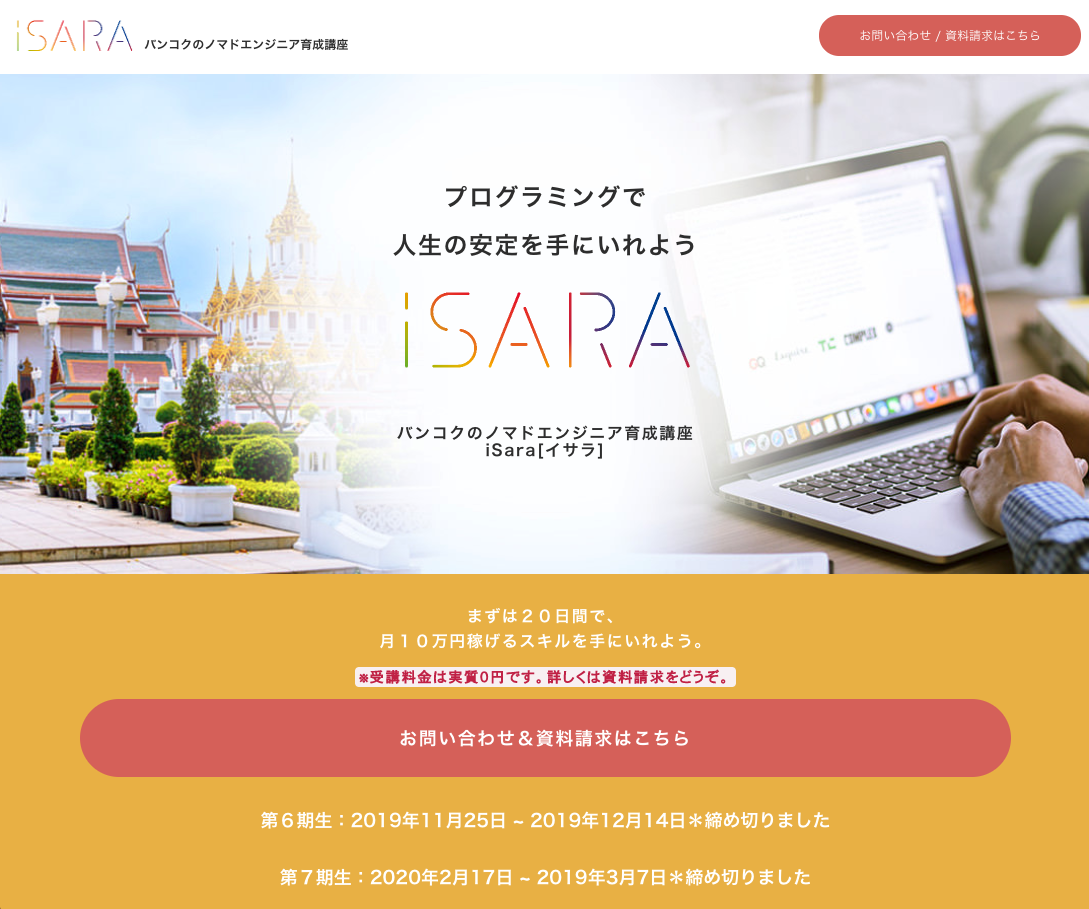
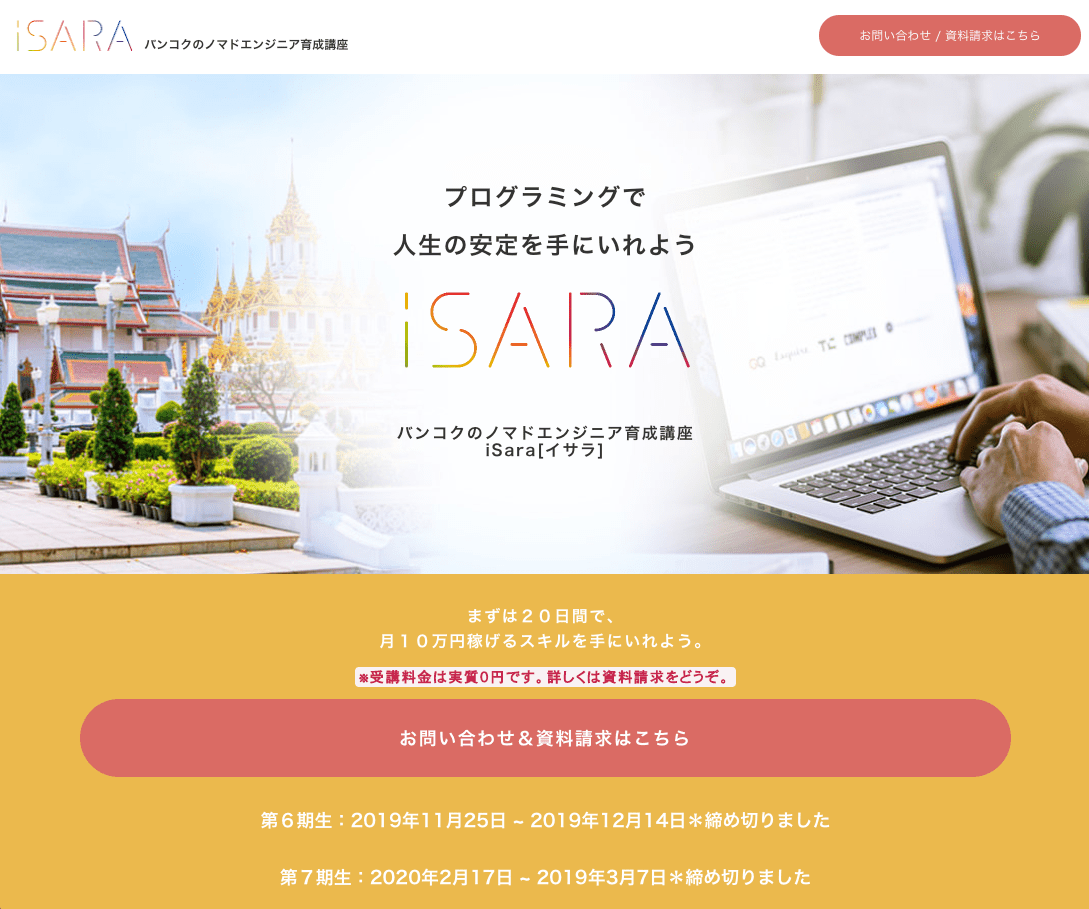
imagemin修正、画像の圧縮

diff --git a/gulpfile.js b/gulpfile.js
@@ -19,7 +19,7 @@ const imagemin = require("gulp-imagemin");
 const imageminPngquant = require("imagemin-pngquant");
 const imageminMozjpeg = require("imagemin-mozjpeg");
 const imageminOption = [
-	imageminPngquant({ quality: "65-80" }),
+	imageminPngquant({ quality: [0.65, 0.8] }),
 	imageminMozjpeg({ quality: 85 }),
 	imagemin.gifsicle({
 		interlaced: false,
@@ -83,7 +83,7 @@ gulp.task("bs-reload", function(done) {
 
 gulp.task("imagemin", function() {
 	return gulp
-		.src("./img/**/*")
+		.src("./img/base/*.{png,jpg,gif,svg}")
 		.pipe(imagemin(imageminOption))
 		.pipe(gulp.dest("./img"));
 });
